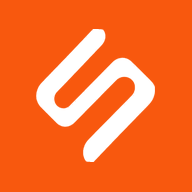
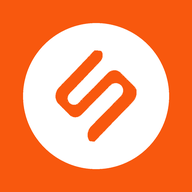
Ikona analizatora wg wzoru Artura (pomaranczowy kwadrat, biale kolo, pomaranczowe S), wymuszenie odswiezenia ikony

diff --git a/analizator.html b/analizator.html
@@ -5,7 +5,7 @@
  if(!ok)ok=/(?:^|; )spAnalizatorPin=1/.test(document.cookie);
  if(ok)return;document.documentElement.className+=' an-zamek';
  function pokaz(){if(document.getElementById('anPin'))return;var d=document.createElement('div');d.id='anPin';
-  d.innerHTML='<form id="anPinF" autocomplete="off"><img src="img/analizator-192.png" alt="" width="64" height="64"><b>Analizator</b>'+
+  d.innerHTML='<form id="anPinF" autocomplete="off"><img src="img/analizator-192.png?v=2" alt="" width="64" height="64"><b>Analizator</b>'+
    '<label for="anPinI">Wpisz PIN</label><input id="anPinI" type="password" inputmode="numeric" pattern="[0-9]*" maxlength="8" autocomplete="off">'+
    '<button type="submit">Otwórz</button><p id="anPinE" role="alert"></p></form>';
   document.body.appendChild(d);var f=document.getElementById('anPinF'),i=document.getElementById('anPinI');
@@ -47,10 +47,10 @@ html.an-zamek,html.an-zamek body{overflow:hidden!important}
 <meta name="robots" content="noindex, nofollow">
 
 <link rel="icon" href="favicon.ico" sizes="any">
-<link rel="icon" type="image/png" sizes="192x192" href="img/analizator-192.png">
+<link rel="icon" type="image/png" sizes="192x192" href="img/analizator-192.png?v=2">
 <link rel="manifest" href="analizator.webmanifest">
 <meta name="theme-color" content="#F8580E">
-<link rel="apple-touch-icon" sizes="180x180" href="img/analizator-180.png">
+<link rel="apple-touch-icon" sizes="180x180" href="img/analizator-180.png?v=2">
 <meta name="apple-mobile-web-app-capable" content="yes"><meta name="mobile-web-app-capable" content="yes">
 <meta name="apple-mobile-web-app-title" content="Analizator">
 <link rel="preconnect" href="https://fonts.googleapis.com">

diff --git a/_buduj_analizator.py b/_buduj_analizator.py
@@ -33,11 +33,11 @@ s = re.sub(r'<script type="application/ld\+json".*?</script>\s*', '', s, flags=r
 s = re.sub(r'<meta name="twitter:[^>]*>\s*', '', s)
 zamien('<link rel="manifest" href="site.webmanifest">', '<link rel="manifest" href="analizator.webmanifest">')
 zamien('<link rel="apple-touch-icon" sizes="180x180" href="img/apple-touch-icon.png">',
-       '<link rel="apple-touch-icon" sizes="180x180" href="img/analizator-180.png">' + NL +
+       '<link rel="apple-touch-icon" sizes="180x180" href="img/analizator-180.png?v=2">' + NL +
        '<meta name="apple-mobile-web-app-capable" content="yes"><meta name="mobile-web-app-capable" content="yes">' + NL +
        '<meta name="apple-mobile-web-app-title" content="Analizator">')
 zamien('<link rel="icon" type="image/png" sizes="192x192" href="img/ikona-192.png">',
-       '<link rel="icon" type="image/png" sizes="192x192" href="img/analizator-192.png">')
+       '<link rel="icon" type="image/png" sizes="192x192" href="img/analizator-192.png?v=2">')
 s = re.sub(r'<meta name="theme-color" content="[^"]*">', '<meta name="theme-color" content="#F8580E">', s, count=1)
 
 # 2. tryb parkieciarza zawsze + blokada PIN (zaraz po <meta viewport>, przed reszta skryptow)
@@ -46,7 +46,7 @@ BRAMKA = '''<script>window.SP_ANALIZATOR=1;
  if(!ok)ok=/(?:^|; )spAnalizatorPin=1/.test(document.cookie);
  if(ok)return;document.documentElement.className+=' an-zamek';
  function pokaz(){if(document.getElementById('anPin'))return;var d=document.createElement('div');d.id='anPin';
-  d.innerHTML='<form id="anPinF" autocomplete="off"><img src="img/analizator-192.png" alt="" width="64" height="64"><b>Analizator</b>'+
+  d.innerHTML='<form id="anPinF" autocomplete="off"><img src="img/analizator-192.png?v=2" alt="" width="64" height="64"><b>Analizator</b>'+
    '<label for="anPinI">Wpisz PIN</label><input id="anPinI" type="password" inputmode="numeric" pattern="[0-9]*" maxlength="8" autocomplete="off">'+
    '<button type="submit">Otwórz</button><p id="anPinE" role="alert"></p></form>';
   document.body.appendChild(d);var f=document.getElementById('anPinF'),i=document.getElementById('anPinI');
